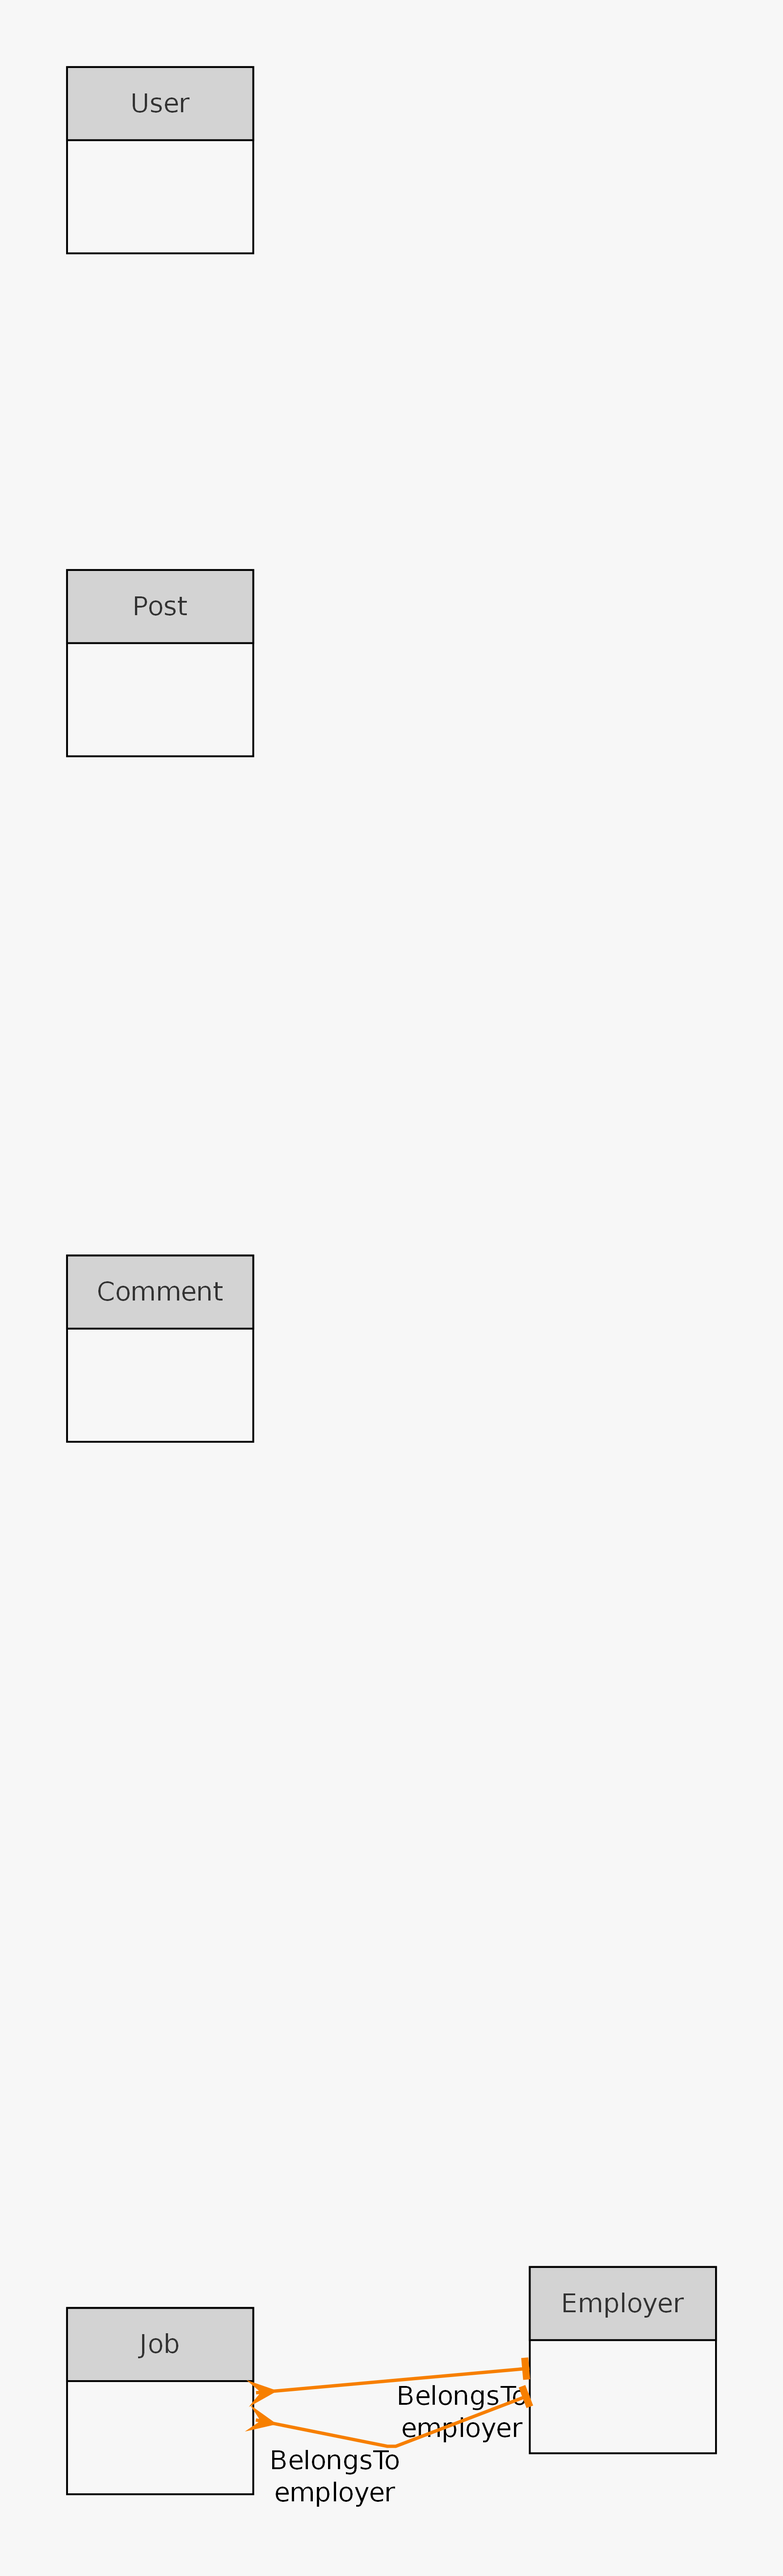
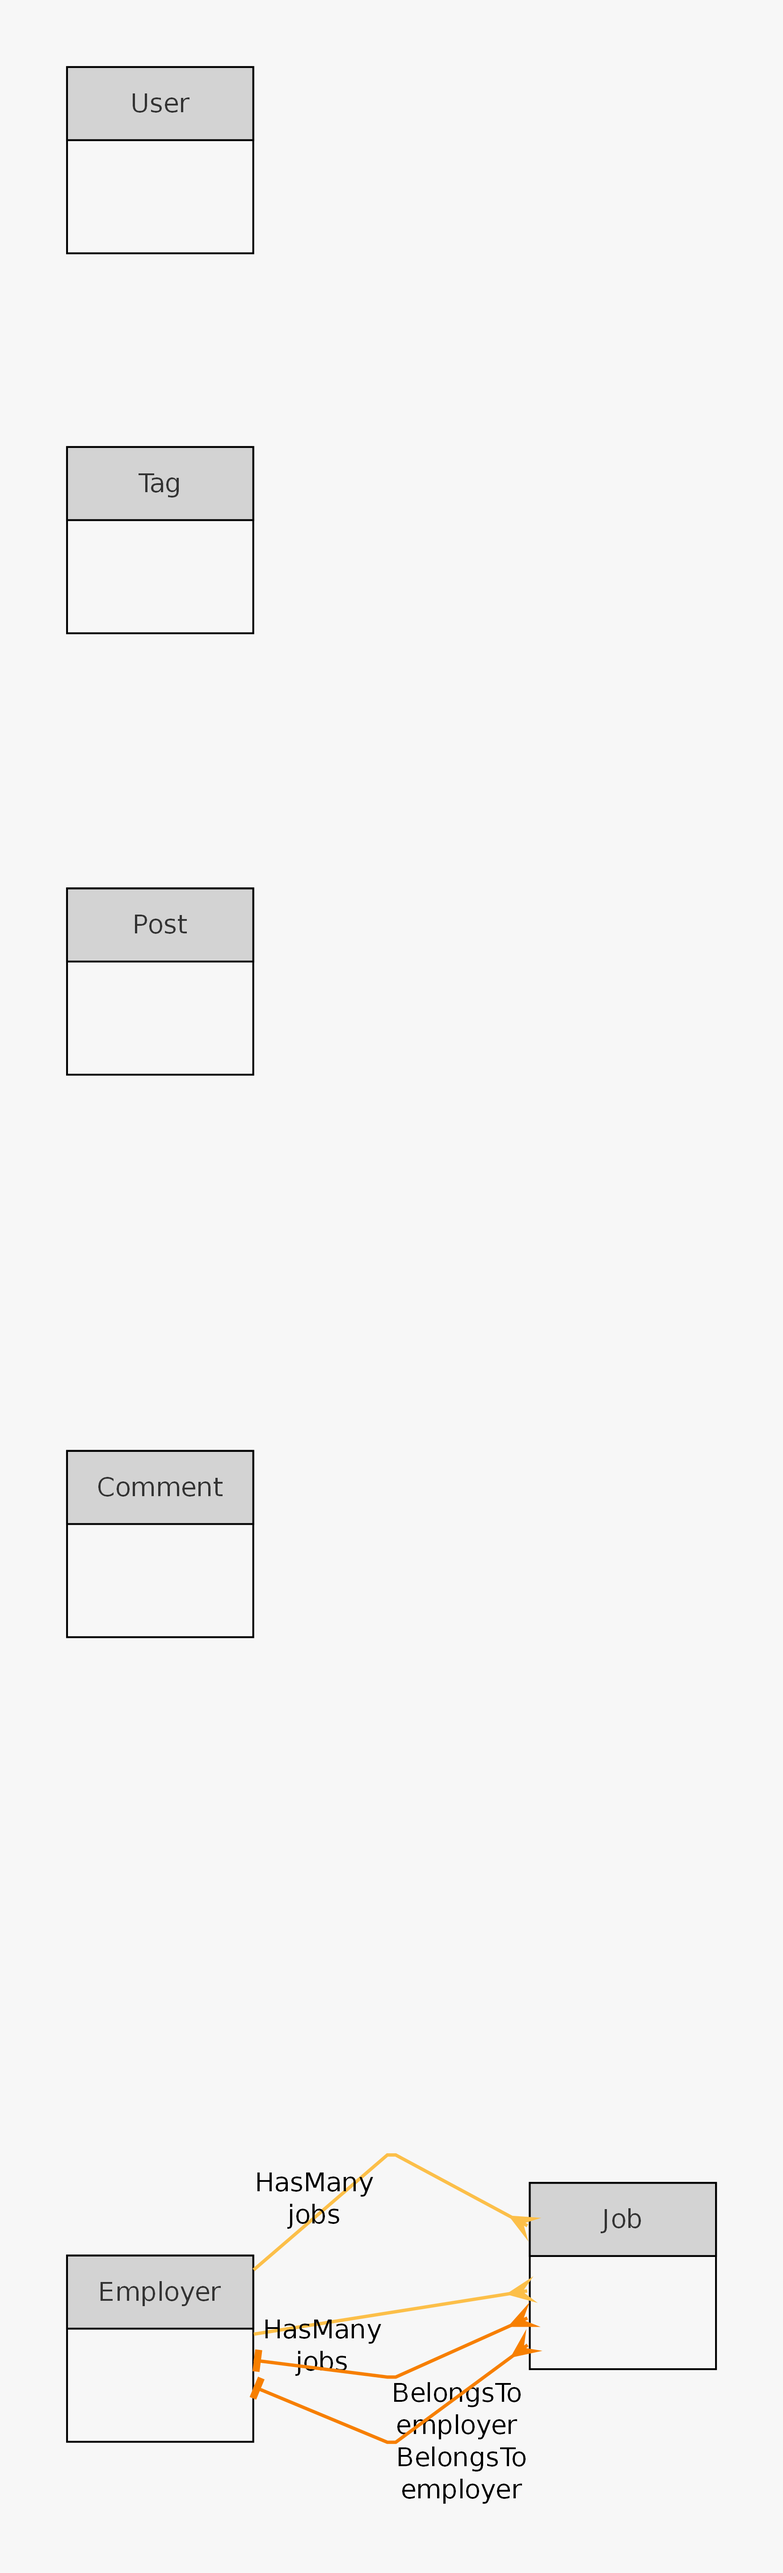
update

diff --git a/30 Days to Learn Laravel/database/migrations/2025_01_19_193112_create_tags_table.php b/30 Days to Learn Laravel/database/migrations/2025_01_19_193112_create_tags_table.php
@@ -1,0 +1,41 @@
+<?php
+
+// sqlite-db: PRAGMA FOREIGN_KEYS=on; // constraints aktivieren, default ist off
+
+use Illuminate\Database\Migrations\Migration;
+use Illuminate\Database\Schema\Blueprint;
+use Illuminate\Support\Facades\Schema;
+
+return new class extends Migration
+{
+    /**
+     * Run the migrations.
+     */
+    public function up(): void
+    {
+        Schema::create('tags', function (Blueprint $table) {
+            $table->id();
+            $table->string('name');
+            $table->timestamps();
+        });
+
+        // Konvention: singular, alphabetisch sortiert
+        Schema::create('job_tag', function (Blueprint $table) {
+            $table->id();
+            // '\' = use / foreignIdFor() = optional, weil immer absoluter Pfad
+            // CTRL + Click => foreignIdFor($model, $column = null)
+            $table->foreignIdFor(\App\Models\Job::class, 'job_listing_id')->constrained()->cascadeOnDelete();
+            $table->foreignIdFor(\App\Models\Tag::class)->constrained()->cascadeOnDelete();
+            $table->timestamps();
+        });
+    }
+
+    /**
+     * Reverse the migrations.
+     */
+    public function down(): void
+    {
+        Schema::dropIfExists('tags');
+        Schema::dropIfExists('job_tag');
+    }
+};

diff --git a/30 Days to Learn Laravel/app/Models/Job.php b/30 Days to Learn Laravel/app/Models/Job.php
@@ -11,6 +11,15 @@
 // $job->salary;
 // $job->delete();
 
+// $job = App\Models\Job::first();
+// Lazy Loading: bezieht sich auf die Verzögerung einer SQL-Abfrage bis zum letztmöglichen Zeitpunkt
+// $job->employer;
+// $job->employer->name;
+// $employer = $job->employer;
+// $employer->jobs;
+// $employer->jobs[0];
+// $employer->jobs->first();
+
 // App namespace defined in composer.json => autoload
 namespace App\Models;
 
@@ -35,5 +44,12 @@ class Job extends Model
     public function employer()
     {
         return $this->belongsTo(Employer::class);
+    }
+
+    public function tags()
+    {
+        // CTRL + Click => belongsToMany($related, $table = null, $foreignPivotKey = null, $relatedPivotKey = null,
+        //                  $parentKey = null, $relatedKey = null, $relation = null)
+        return $this->belongsToMany(Tag::class, foreignPivotKey: 'job_listing_id');
     }
 }

diff --git a/30 Days to Learn Laravel/app/Models/Tag.php b/30 Days to Learn Laravel/app/Models/Tag.php
@@ -1,0 +1,27 @@
+<?php
+
+// $tag = App\Models\Tag::find(1);
+// $tag->jobs; // Zugriff als Property
+// $tag->jobs(); // Zugriff als Methode
+// $tag->jobs()->attach(7);
+// $tag->jobs()->attach(App\Models\Job::find(7);
+// neue Query:
+// $tag->jobs()->get();
+// explizites Attribut:
+// $tag->jobs()->get()->pluck('title');
+
+namespace App\Models;
+
+use Illuminate\Database\Eloquent\Factories\HasFactory;
+use Illuminate\Database\Eloquent\Model;
+
+class Tag extends Model
+{
+    /** @use HasFactory<\Database\Factories\TagFactory> */
+    use HasFactory;
+
+    public function jobs()
+    {
+        return $this->belongsToMany(Job::class, relatedPivotKey: 'job_listing_id');
+    }
+}

diff --git a/30 Days to Learn Laravel/database/factories/TagFactory.php b/30 Days to Learn Laravel/database/factories/TagFactory.php
@@ -1,0 +1,23 @@
+<?php
+
+namespace Database\Factories;
+
+use \Illuminate\Database\Eloquent\Factories\Factory;
+
+/**
+ * @extends \Illuminate\Database\Eloquent\Factories\Factory<\App\Models\Tag>
+ */
+class TagFactory extends Factory
+{
+    /**
+     * Define the model's default state.
+     *
+     * @return array<string, mixed>
+     */
+    public function definition(): array
+    {
+        return [
+            //
+        ];
+    }
+}

diff --git a/30 Days to Learn Laravel/app/Models/Employer.php b/30 Days to Learn Laravel/app/Models/Employer.php
@@ -11,4 +11,9 @@ class Employer extends Model
 {
     /** @use HasFactory<\Database\Factories\EmployerFactory> */
     use HasFactory;
+
+    public function jobs()
+    {
+        return $this->hasMany(Job::class);
+    }
 }
